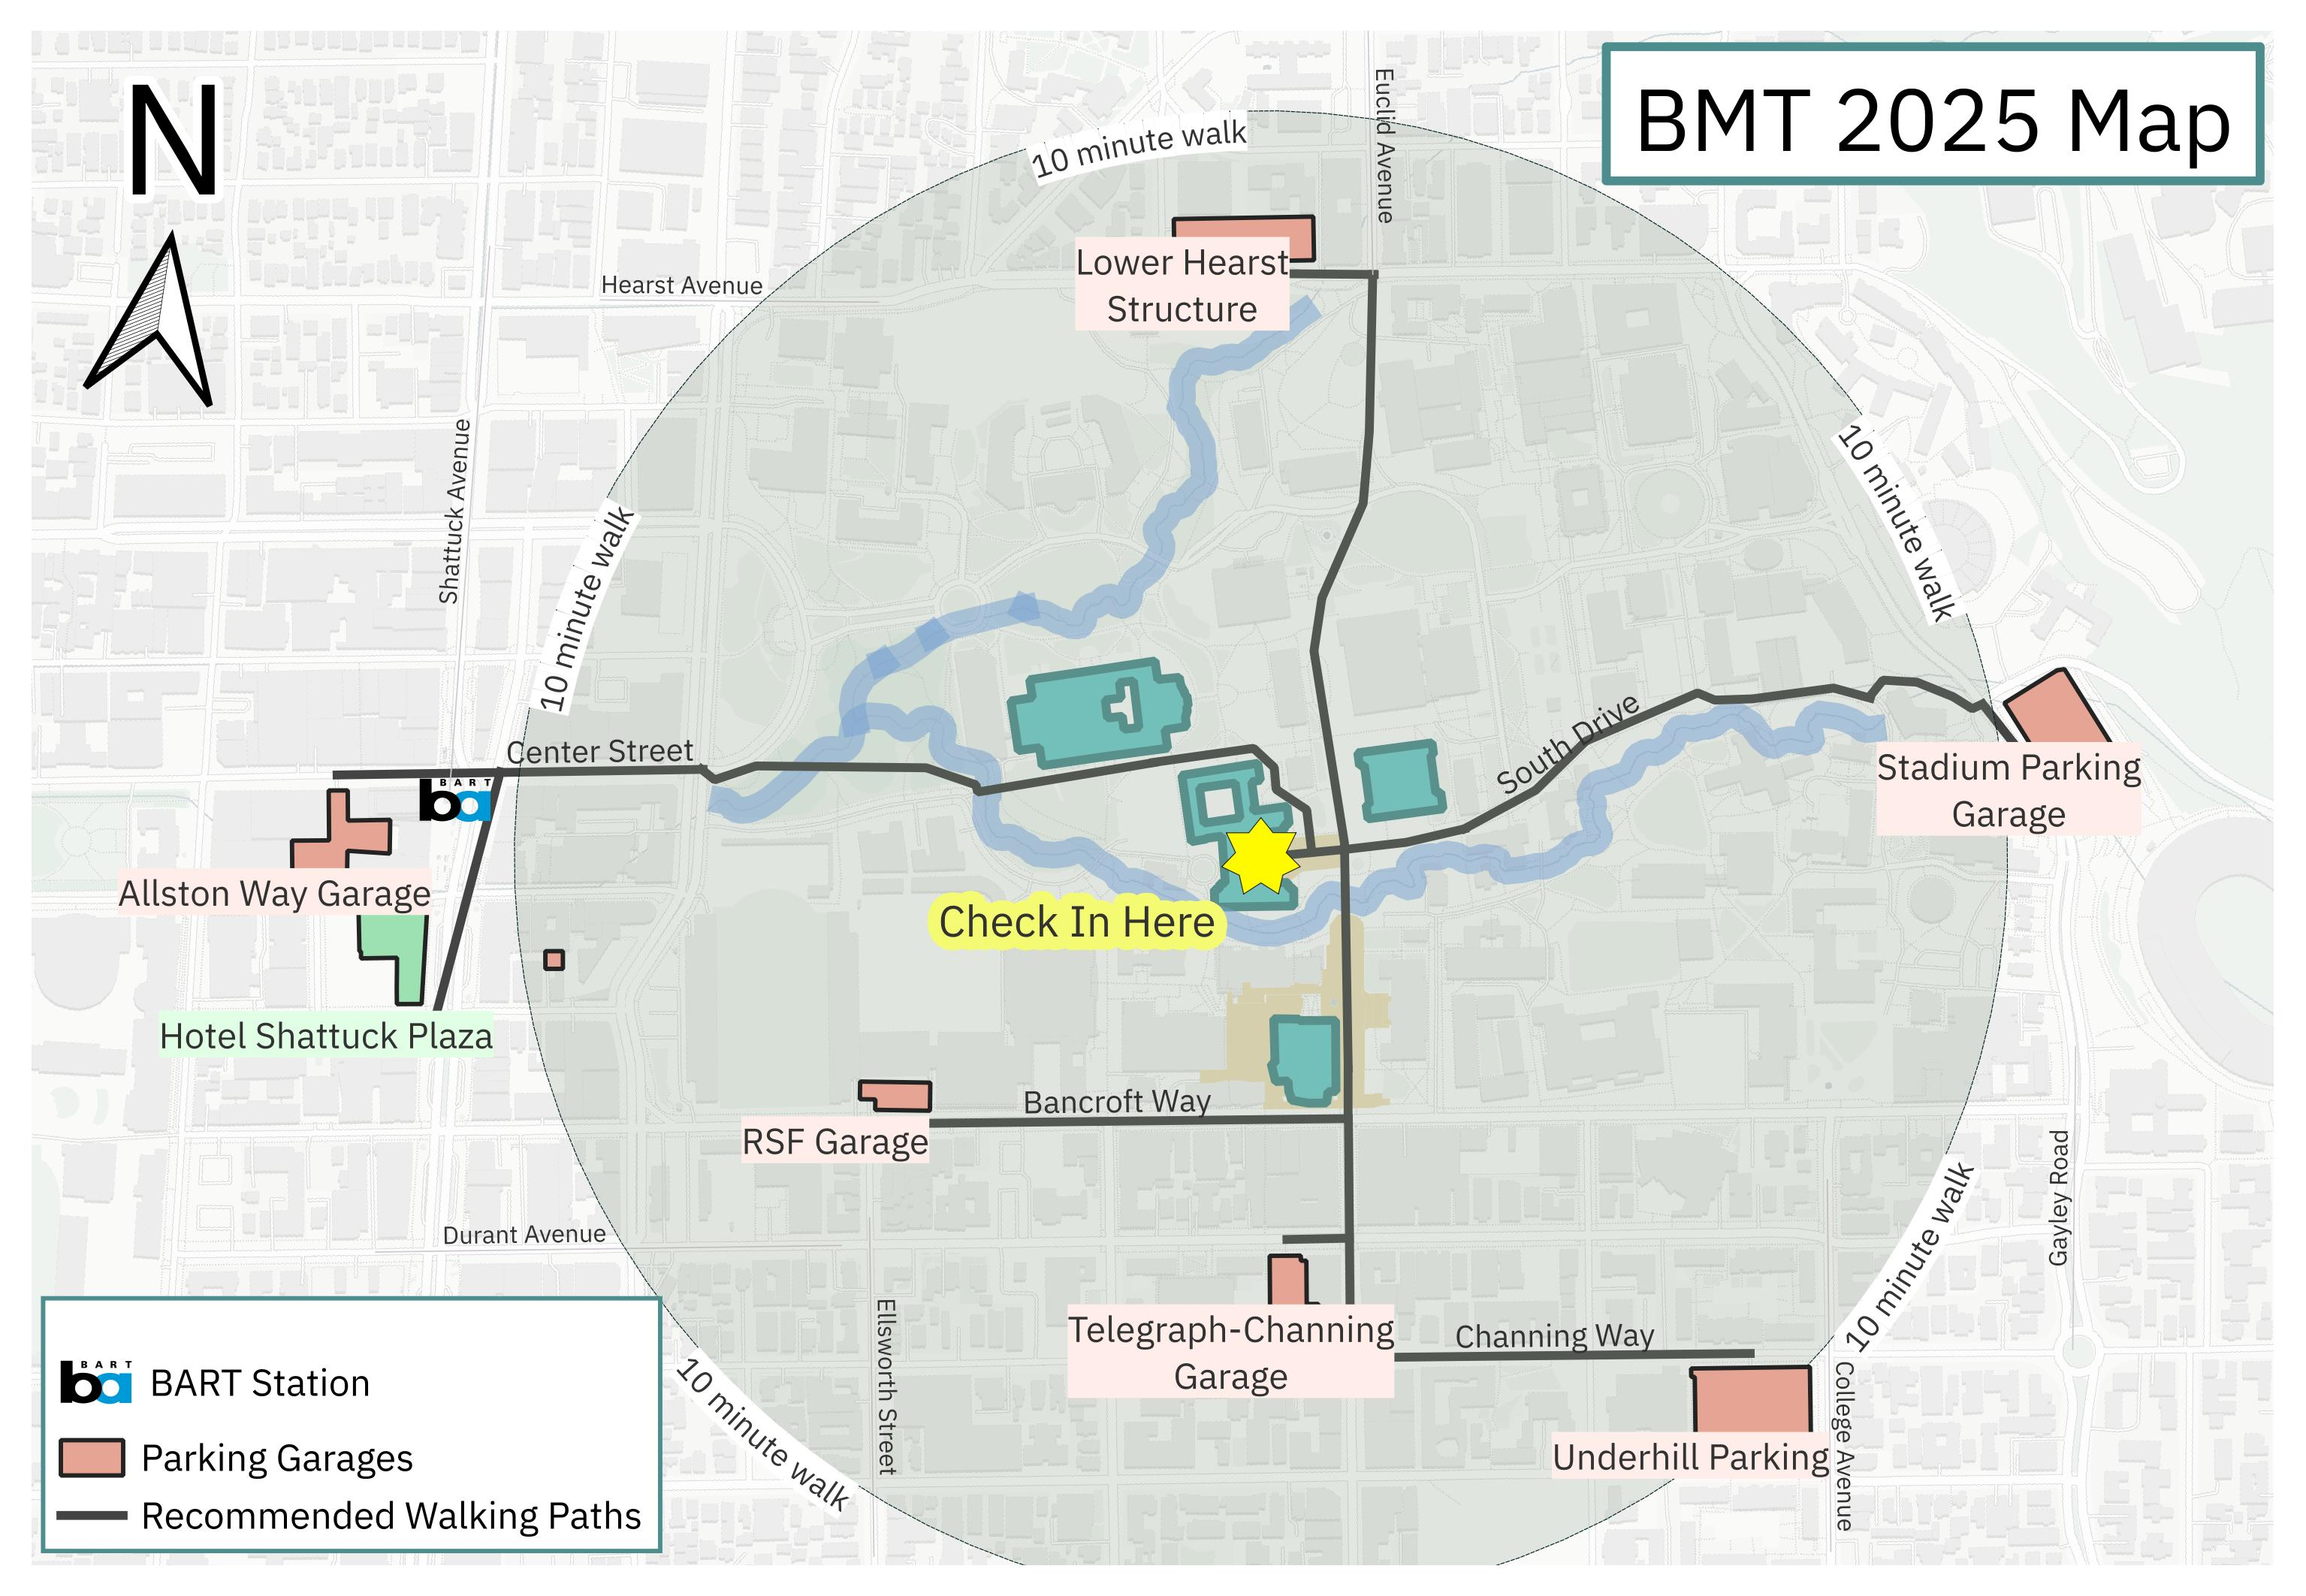
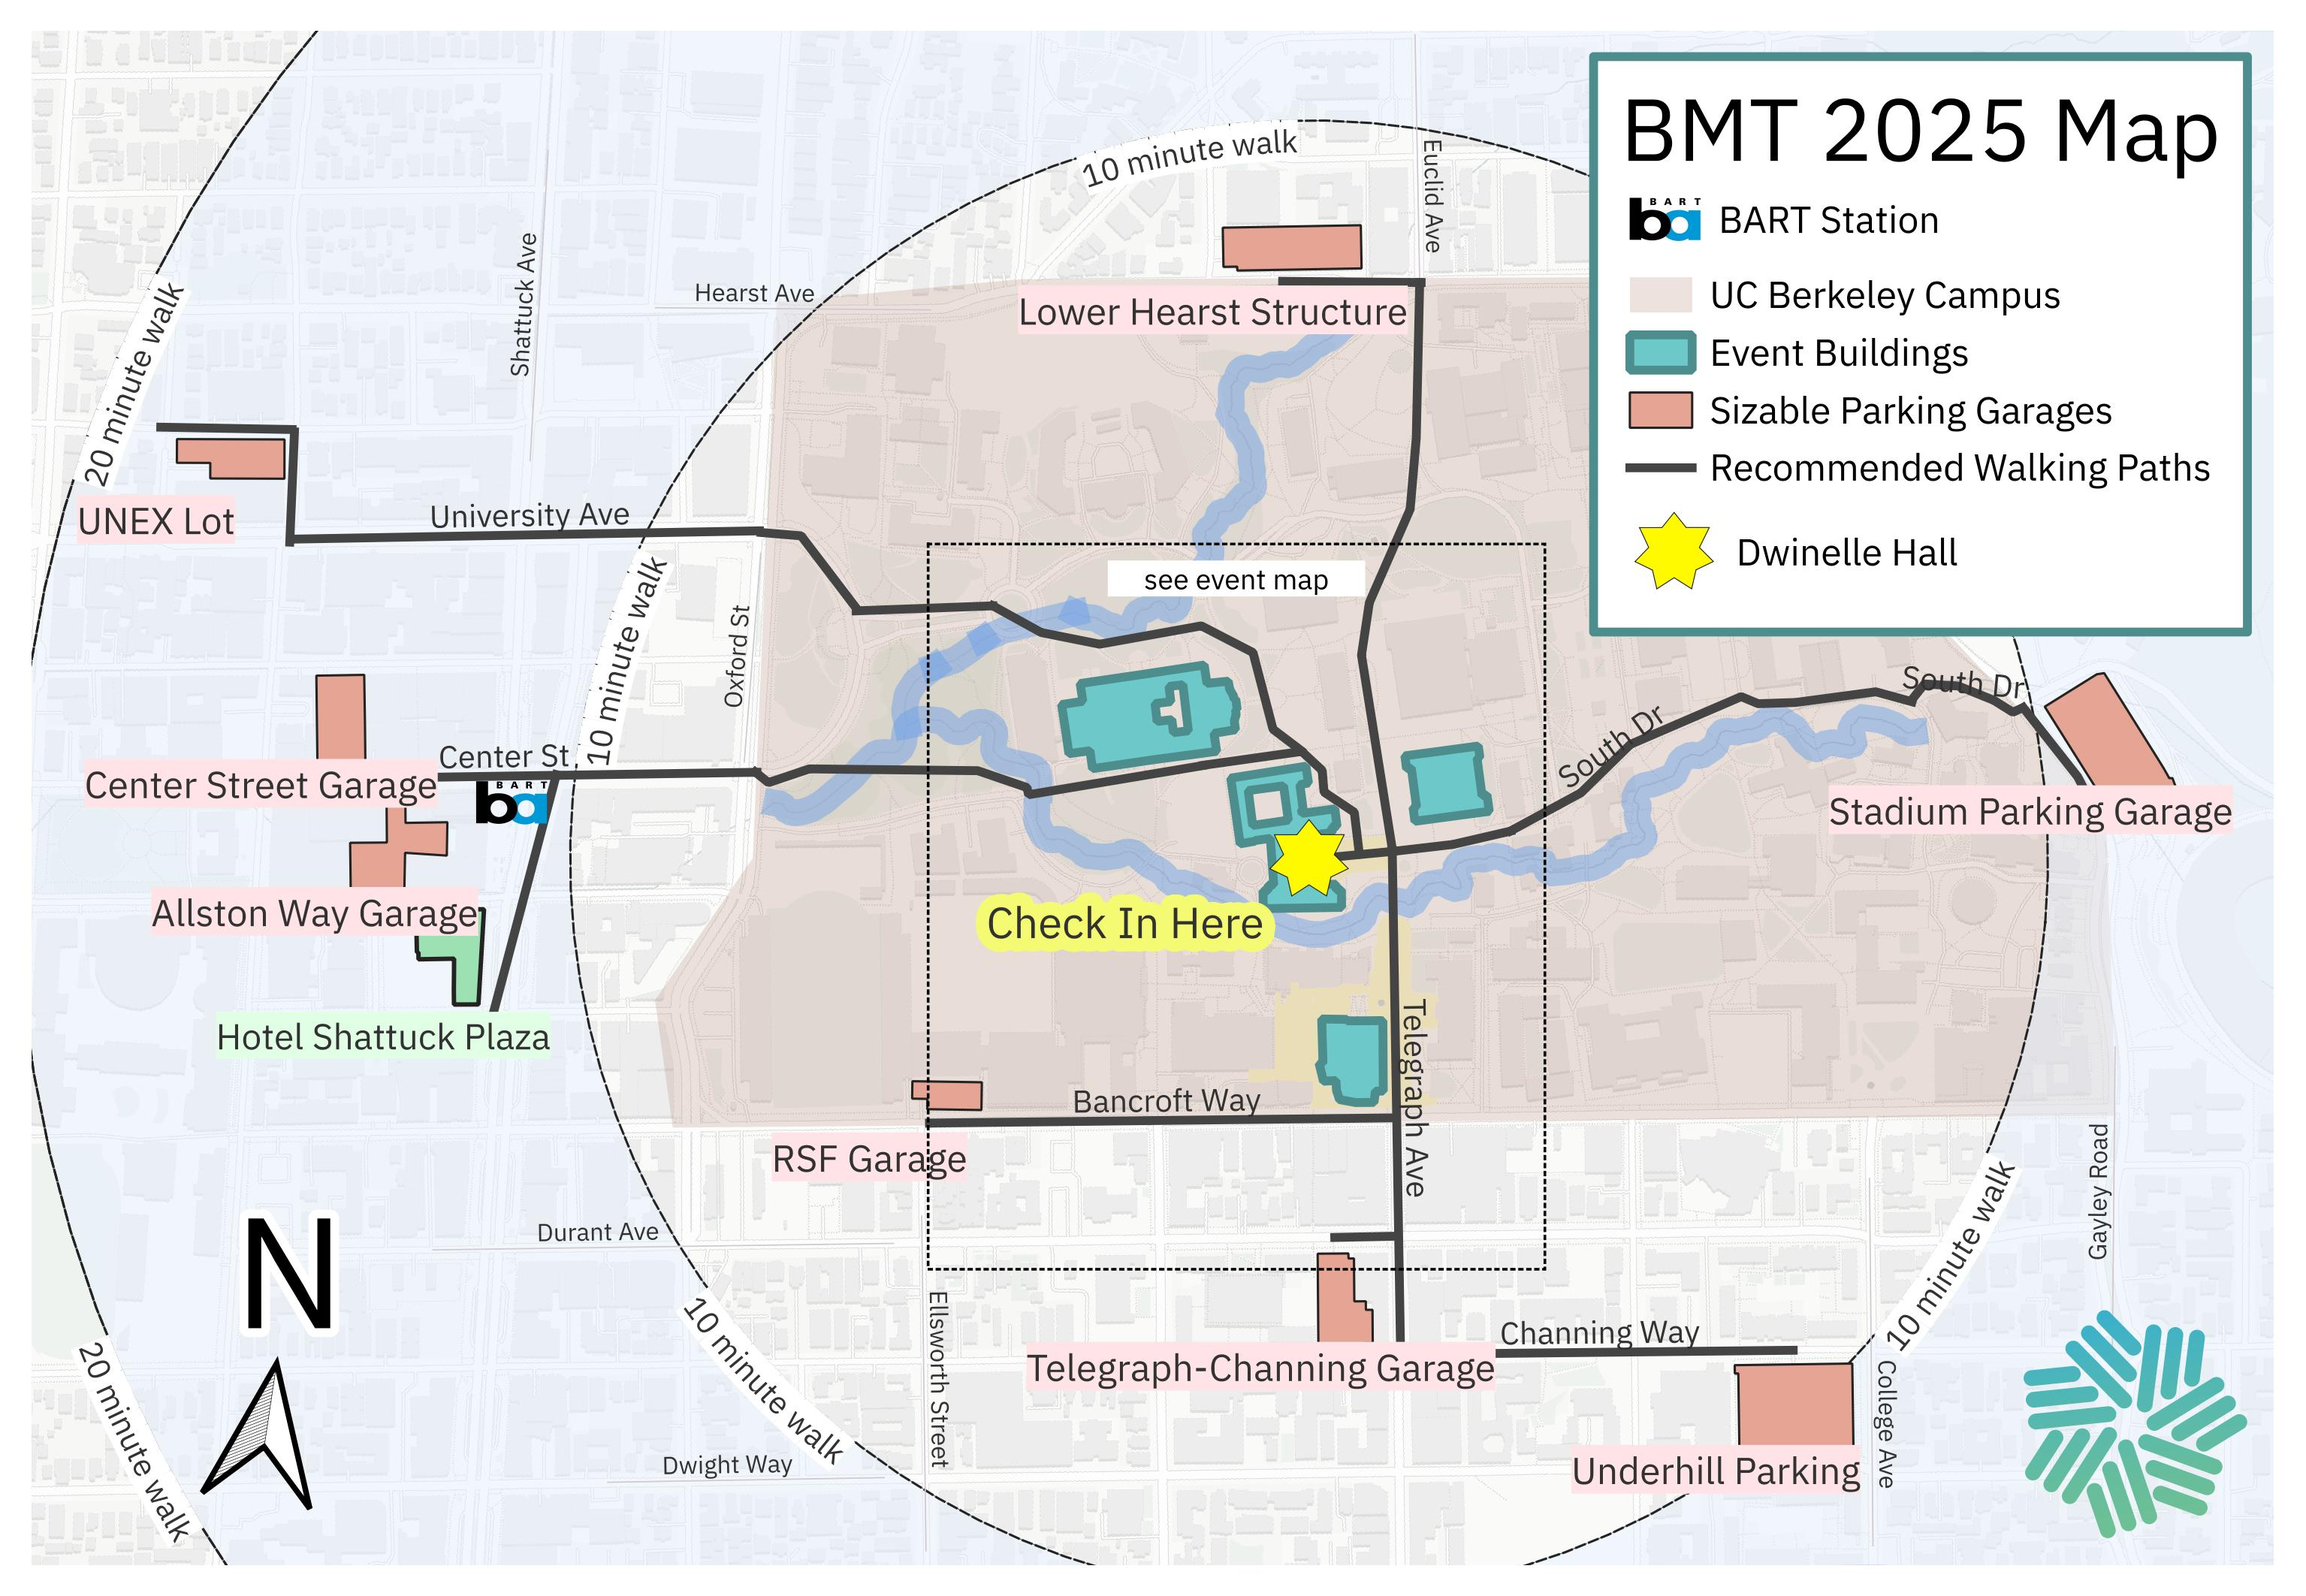
feat: update parking

Changed region(s): [[0.0, 0.0, 0.9902, 0.9939], [0.4023, 0.3106, 0.4332, 0.3416]]

diff --git a/content/news/2025-10-20_bmt-2025-logistics.md b/content/news/2025-10-20_bmt-2025-logistics.md
@@ -98,7 +98,9 @@ map attached below:
 - Underhill Parking
 - Stadium Parking Garage
 - Allston Way Garage
+- Center Street Garage
 - Lower Hearst Structure
+- UNEX Lot
 
 ![Annotated Parking Map](/assets/bmt-2025/parking-map.jpg)
 
